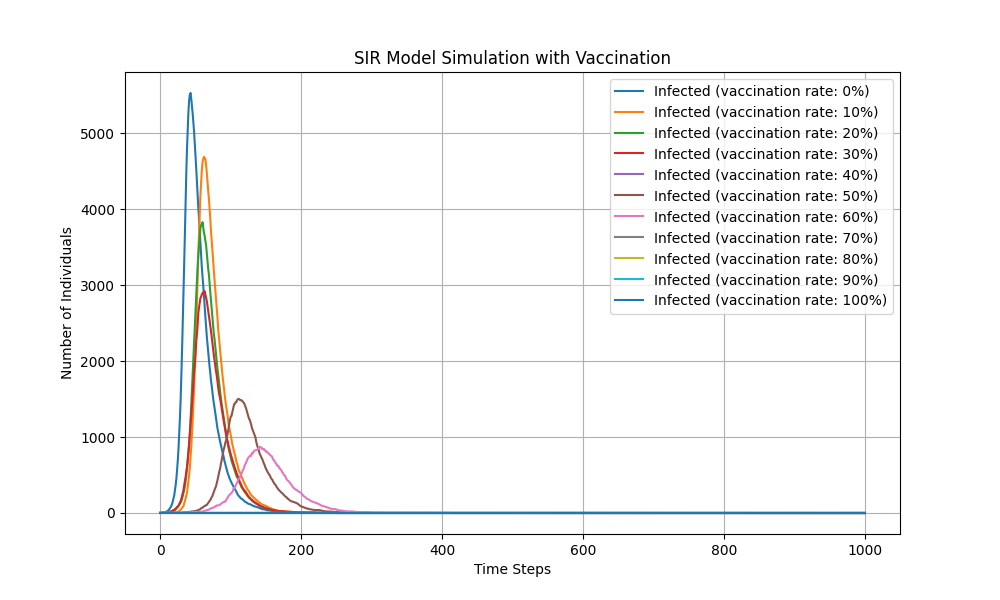
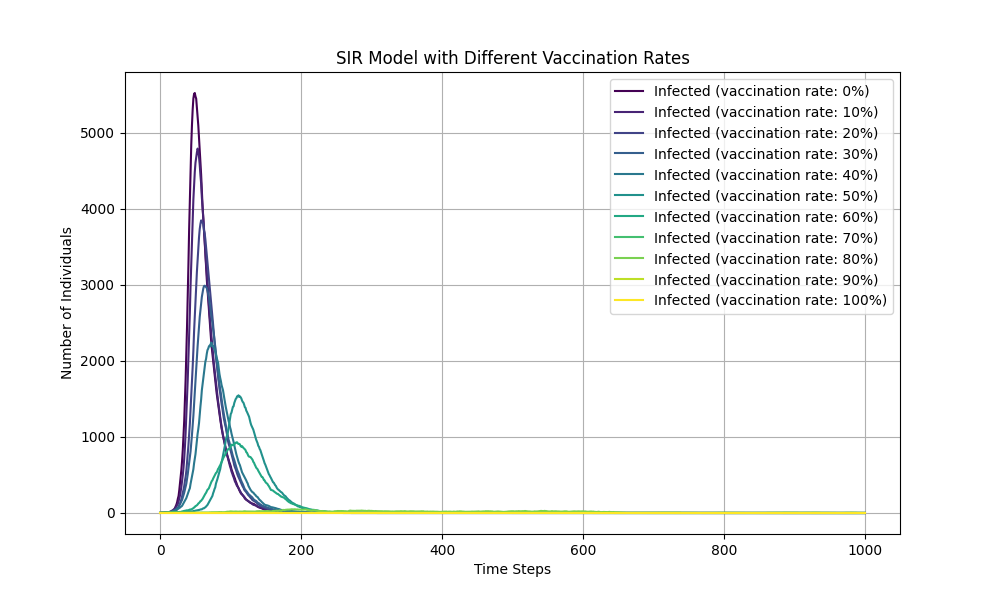
Enhance SIR vaccination simulation: update plot colors by vaccination rate

diff --git a/Practical9/SIR_vaccination.py b/Practical9/SIR_vaccination.py
@@ -1,6 +1,7 @@
 import json
 import numpy as np
 import matplotlib.pyplot as plt
+from matplotlib import cm
 
 from SIR import Population, SIR_simulation
 
@@ -8,10 +9,10 @@ def plot_SIR_all(infected_counts_list, vaccination_rates, fig_path="SIR_vaccinat
     plt.figure(figsize=(10, 6))
     for i, infected_counts in enumerate(infected_counts_list):
         rate = vaccination_rates[i]
-        plt.plot(infected_counts, label=f'Infected (vaccination rate: {rate * 100:.0f}%)')
+        plt.plot(infected_counts, label=f'Infected (vaccination rate: {rate * 100:.0f}%)', color=cm.viridis(rate))  # Use a colormap to differentiate lines by vaccination rate
     plt.xlabel('Time Steps')
     plt.ylabel('Number of Individuals')
-    plt.title('SIR Model Simulation with Vaccination')
+    plt.title('SIR Model with Different Vaccination Rates')
     plt.legend()
     plt.grid()
     plt.savefig(fig_path)
